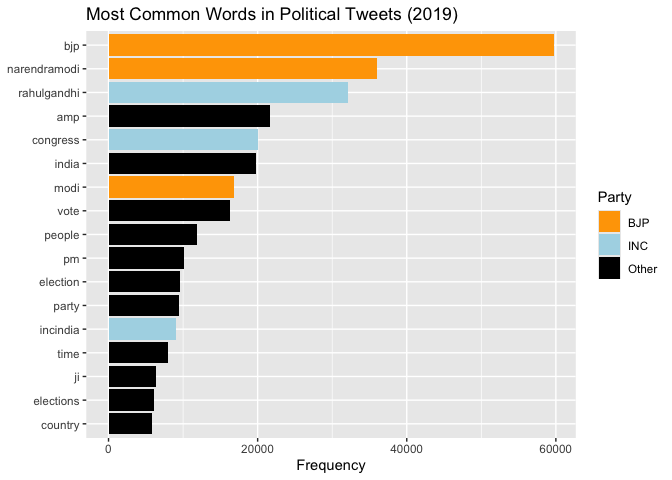
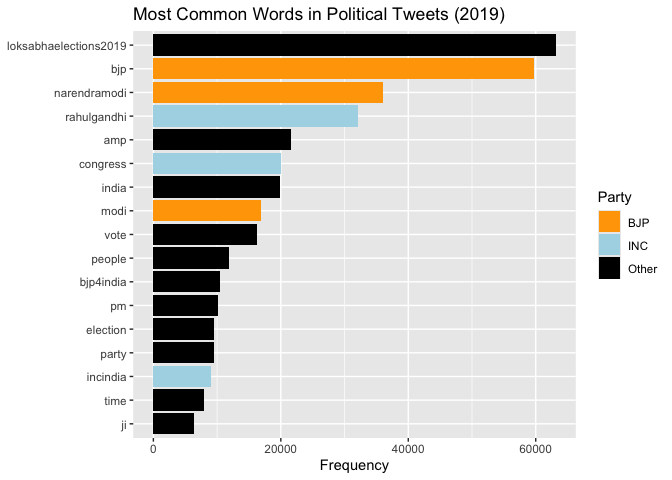
added hashtags

Changed region(s): [[0.0, 0.0, 0.8438, 0.9375], [0.375, 0.9062, 0.625, 1.0], [0.7812, 0.9062, 0.8438, 0.9688]]

diff --git a/README.html b/README.html
@@ -39,17 +39,6 @@ narrow the scope, I filtered the dataset to focus only on tweets from
 the official campaign period and removed tweets that were empty or
 improperly formatted.
 
-``` r
-tweets <- read_csv("IndianElection19TwitterData.csv")       #this dataset was downloaded from Kaggle https://www.kaggle.com/datasets/yogesh239/twitter-data-about-2019-indian-general-election
-tweets <- tweets %>%
-  rename(text = Tweet, timestamp = Date, user = User) %>%   #renaming some columns for better understanding, columns are tweet, date and user
-  mutate(timestamp = as.POSIXct(timestamp, format = "%Y-%m-%d %H:%M:%S"),
-         date = as.Date(timestamp)) %>%                        #drops time stamping from the date part and only keeps the dates
-  filter(date >= as.Date("2019-01-01") & date <= as.Date("2019-05-23")) %>%
-  drop_na(text)     #only select tweets that I have selected in my timeline
-                    #dropping blank columns which have no text
-```
-
 ## DATA CLEANING AND PREPROCESSING
 
 Before diving into the analysis, I cleaned the data to prepare it for
@@ -64,8 +53,8 @@ data("stop_words")   #tidytext package list of words, conjunctions, verbs and ad
 tweet_words <- tweets %>%
   select(user, date, text) %>%               # I have only selected user, date and text column
   unnest_tokens(word, text) %>%              # convert the text into a format that is one word per row format for analysis
-  filter(str_detect(word, "^[a-z']+$")) %>%  
-  anti_join(stop_words, by = "word")   #remove out hashtags, numerical words and others using antijoin
+  filter(str_detect(word, "^#?[A-Za-z0-9]+$"))%>%  
+  anti_join(stop_words, by = "word")  #it includes hashtags words like bjp4india abut excludes some words like #Go_vote, @user, covid-19
 ```
 
 ## WORD FREQUENCY ANALYSIS
@@ -123,23 +112,23 @@ head(top_tf_idf, 17)
     ## # A tibble: 17 × 6
     ##    user            word                       n     tf   idf tf_idf
     ##    <chr>           <chr>                  <int>  <dbl> <dbl>  <dbl>
-    ##  1 0007_CJ         cows                       3 0.111   7.07  0.786
-    ##  2 001_chandan     chandnichowk               1 0.05    8.50  0.425
-    ##  3 001amitsingh    sudhanshubjp               2 0.1    10.8   1.08 
+    ##  1 0007_CJ         cows                       3 0.103   7.07  0.731
+    ##  2 001_chandan     polls2019                  1 0.0455  8.73  0.397
+    ##  3 001amitsingh    sudhanshubjp               2 0.0870 10.8   0.940
     ##  4 001ankitG       abhinandan                 1 0.5     4.71  2.36 
     ##  5 002_akash       answerable                 1 0.0909  7.41  0.673
-    ##  6 004Pruth        pass                       2 0.1     5.48  0.548
-    ##  7 0062a04e1ceb458 scale                      1 0.143   6.24  0.892
+    ##  6 004Pruth        pass                       2 0.0833  5.48  0.457
+    ##  7 0062a04e1ceb458 scale                      1 0.0909  6.24  0.568
     ##  8 007Bhas         aamaadmi                   1 0.0455  8.73  0.397
-    ##  9 007Fahadkhan    electioncommission         1 0.333   3.45  1.15 
-    ## 10 007__AK         opposit                    1 0.0714 10.8   0.772
-    ## 11 007_hemal       trusted                    2 0.0625  6.63  0.415
+    ##  9 007Fahadkhan    electioncommission         1 0.25    3.45  0.862
+    ## 10 007__AK         opposit                    1 0.0667 10.8   0.721
+    ## 11 007_hemal       trusted                    2 0.0588  6.63  0.390
     ## 12 007_joshh       supports                   2 0.0345  5.44  0.188
-    ## 13 007_vasu        unitedpakistanalliance     1 0.0208 10.8   0.225
-    ## 14 007dibs         depends                    1 0.0909  6.43  0.584
-    ## 15 007shekharsuman jaipur                     1 0.0588  6.59  0.388
+    ## 13 007_vasu        unitedpakistanalliance     1 0.0204 10.8   0.221
+    ## 14 007dibs         depends                    1 0.0833  6.43  0.535
+    ## 15 007shekharsuman jaipur                     1 0.0625  6.59  0.412
     ## 16 007vidyadhar    sakhshimaharaj             1 0.143  10.8   1.54 
-    ## 17 0099Swami       prestigious                1 0.0625  7.20  0.450
+    ## 17 0099Swami       prestigious                1 0.0588  7.20  0.423
 
 These are random twitter users,not someone who I think are famous or
 have a celebrity status. Fir 001amitsingh, word sudhanshubjp has a high
@@ -165,7 +154,7 @@ campaign rallies.
 
 ``` r
 sentiment_words <- tweet_words %>% inner_join(get_sentiments("bing"))      #using bing for sentiment analysis https://www.tidytextmining.com/sentiment, using inner join (referenced from penultimate class lecture or I was getting this wrong)
-sentiment_by_day <- sentiment_words %>% count(date, sentiment) %>% pivot_wider(names_from = sentiment, values_from = n, values_fill = 0) %>% mutate(net_sentiment = positive - negative)                                    # counting the no of positve and negative words for each date. Formating wife data for each data to have its own positive and negative, fill any missing values with zero such that it will still appear. Add a new sentiment column: sentiment positive if move positive words, sentiment negative if more negative words
+sentiment_by_day <- sentiment_words %>% count(date, sentiment) %>% pivot_wider(names_from = sentiment, values_from = n, values_fill = 0) %>% mutate(net_sentiment = positive - negative)                                    # counting the no of positve and negative words for each date. Formatingdata for each data to have its own positive and negative, fill any missing values with zero such that it will still appear. Add a new sentiment column: sentiment positive if move positive words, sentiment negative if more negative words
 ggplot(sentiment_by_day, aes(x = date, y = net_sentiment)) + 
   geom_vline(xintercept = as.Date("2019-02-14"), linetype = "dashed", color = "red") + annotate("text", x = as.Date("2019-02-14"), y = 100, label = "Pulwama Attack", angle = 90, vjust = -0.6, size = 3) + geom_vline(xintercept = as.Date("2019-02-26"), linetype = "dashed", color = "red") + annotate("text", x = as.Date("2019-02-26"), y = 100, label = "Balakot Strikes", angle = 90, vjust = -0.6, size = 3) + geom_vline(xintercept = as.Date("2019-03-10"), linetype = "dashed", color = "red") + annotate("text", x = as.Date("2019-03-10"), y = 100, label = "Onset of elections", angle = 90, vjust = -0.6, size = 3) + geom_vline(xintercept = as.Date("2019-05-19"), linetype = "dashed", color = "red") + annotate("text", x = as.Date("2019-05-19"), y = 100, label = "End of polling", angle = 90, vjust = -0.6, size = 3) +
   geom_line(color = "black") +                                             #these lines are added just to mark important dates with context to indian elections
@@ -200,7 +189,7 @@ mix of aspirational and accusatory language felt typical of high stakes
 electoral contests, especially in India’s charged political climate.
 
 ``` r
-wordcloud_data <- sentiment_words %>% count(word, sentiment, sort = TRUE)              #this counts the number of words in sentiment_words dataset grouping them by sentiments and then sorting it 
+wordcloud_data <- sentiment_words %>% count(word, sentiment, sort = TRUE) #this counts the number of words in sentiment_words dataset grouping them by sentiments and then sorting it 
 wordcloud(words = wordcloud_data$word,   #this code just creates the word cloud, the last line ensures that biggest words appear at the center than being scatter around
  freq = wordcloud_data$n,  min.freq = 30, max.words = 100, colors = c("black", "grey"),random.order = FALSE)
 ```
@@ -235,19 +224,17 @@ party_patterns <- list(
   TMC   = c("@AITCofficial", "\\bTMC\\b", "Mamata Banerjee"),
   CPIM  = c("@cpimspeak", "@cpofindia", "\\bCPI\\b", "\\bCPIM\\b"),
   SP    = c("@samajwadiparty", "Akhilesh Yadav", "\\bSP\\b")
-)  #these are some party specific keywords or twitter handles that I thought would be relevant given my knowledge of Indian Politics
+)  #these are some party specific keywords or twitter handles that I thought would be relevant given my limited knowledge of Indian Politics
 
-detect_party <- function(tweet) { for (party in names(party_patterns)) { if (any(str_detect(tweet, regex(party_patterns[[party]], ignore_case = TRUE)))) { return(party) } }
+detect_party <- function(tweet) { for (party in names(party_patterns)) { if (any(str_detect(tweet, regex(party_patterns[[party]], ignore_case = TRUE)))) { return(party) } } #this is a party helper function that goes and loops through each tweet and checks whether any of the party specific patterns that I mentioned above show in the then
   return("Other")
 }
-                #this is a party helper function that goes and loops through each tweet and checks whether any of the party specific patterns that I mentioned above show in the then
-
 tweets <- tweets %>% mutate(party = map_chr(text, detect_party)) %>%filter(party != "Other")   #function to each tweet and add a new parrty column, filter out tweets that have no parties mentioned especially the ones I have mentioned in the code above
-
 tidy_tweets <- tweets %>%
   unnest_tokens(word, text) %>%                     #break tweet into indiv words and then remove filler words and numbers, hashtags and punctuations
   anti_join(stop_words, by = "word") %>%
-  filter(str_detect(word, "^[a-z]+$"))              #filter out the hashtags, numerics which are not used in our study or analysis
+  filter(str_detect(word, "^#?[A-Za-z0-9]+$"))
+             #it includes hashtags words like bjp4india abut excludes some words like #Go_vote, @user, covid-19
 ```
 
 ## SENTIMENT BY PARTY
@@ -316,9 +303,7 @@ continuing with the basic shape would be the best In order to complete
 this project I was stuck with the problem of having way too many filler
 words and while attending the penultimate lecture I figureds stopwords
 out.  
-I tried using AI to help me with generating a different shape of the
-word cloud but I didnt implement it in this project. Kaggle was of great
-help as was stackoverflow. <br>
+Kaggle was of great help as was stackoverflow. <br>
 
 1.  <https://www.kaggle.com/datasets/yogesh239/twitter-data-about-2019-indian-general-election>
     <br>

diff --git a/README.md b/README.md
@@ -39,17 +39,6 @@ narrow the scope, I filtered the dataset to focus only on tweets from
 the official campaign period and removed tweets that were empty or
 improperly formatted.
 
-``` r
-tweets <- read_csv("IndianElection19TwitterData.csv")       #this dataset was downloaded from Kaggle https://www.kaggle.com/datasets/yogesh239/twitter-data-about-2019-indian-general-election
-tweets <- tweets %>%
-  rename(text = Tweet, timestamp = Date, user = User) %>%   #renaming some columns for better understanding, columns are tweet, date and user
-  mutate(timestamp = as.POSIXct(timestamp, format = "%Y-%m-%d %H:%M:%S"),
-         date = as.Date(timestamp)) %>%                        #drops time stamping from the date part and only keeps the dates
-  filter(date >= as.Date("2019-01-01") & date <= as.Date("2019-05-23")) %>%
-  drop_na(text)     #only select tweets that I have selected in my timeline
-                    #dropping blank columns which have no text
-```
-
 ## DATA CLEANING AND PREPROCESSING
 
 Before diving into the analysis, I cleaned the data to prepare it for
@@ -64,8 +53,8 @@ data("stop_words")   #tidytext package list of words, conjunctions, verbs and ad
 tweet_words <- tweets %>%
   select(user, date, text) %>%               # I have only selected user, date and text column
   unnest_tokens(word, text) %>%              # convert the text into a format that is one word per row format for analysis
-  filter(str_detect(word, "^[a-z']+$")) %>%  
-  anti_join(stop_words, by = "word")   #remove out hashtags, numerical words and others using antijoin
+  filter(str_detect(word, "^#?[A-Za-z0-9]+$"))%>%  
+  anti_join(stop_words, by = "word")  #it includes hashtags words like bjp4india abut excludes some words like #Go_vote, @user, covid-19
 ```
 
 ## WORD FREQUENCY ANALYSIS
@@ -123,23 +112,23 @@ head(top_tf_idf, 17)
     ## # A tibble: 17 × 6
     ##    user            word                       n     tf   idf tf_idf
     ##    <chr>           <chr>                  <int>  <dbl> <dbl>  <dbl>
-    ##  1 0007_CJ         cows                       3 0.111   7.07  0.786
-    ##  2 001_chandan     chandnichowk               1 0.05    8.50  0.425
-    ##  3 001amitsingh    sudhanshubjp               2 0.1    10.8   1.08 
+    ##  1 0007_CJ         cows                       3 0.103   7.07  0.731
+    ##  2 001_chandan     polls2019                  1 0.0455  8.73  0.397
+    ##  3 001amitsingh    sudhanshubjp               2 0.0870 10.8   0.940
     ##  4 001ankitG       abhinandan                 1 0.5     4.71  2.36 
     ##  5 002_akash       answerable                 1 0.0909  7.41  0.673
-    ##  6 004Pruth        pass                       2 0.1     5.48  0.548
-    ##  7 0062a04e1ceb458 scale                      1 0.143   6.24  0.892
+    ##  6 004Pruth        pass                       2 0.0833  5.48  0.457
+    ##  7 0062a04e1ceb458 scale                      1 0.0909  6.24  0.568
     ##  8 007Bhas         aamaadmi                   1 0.0455  8.73  0.397
-    ##  9 007Fahadkhan    electioncommission         1 0.333   3.45  1.15 
-    ## 10 007__AK         opposit                    1 0.0714 10.8   0.772
-    ## 11 007_hemal       trusted                    2 0.0625  6.63  0.415
+    ##  9 007Fahadkhan    electioncommission         1 0.25    3.45  0.862
+    ## 10 007__AK         opposit                    1 0.0667 10.8   0.721
+    ## 11 007_hemal       trusted                    2 0.0588  6.63  0.390
     ## 12 007_joshh       supports                   2 0.0345  5.44  0.188
-    ## 13 007_vasu        unitedpakistanalliance     1 0.0208 10.8   0.225
-    ## 14 007dibs         depends                    1 0.0909  6.43  0.584
-    ## 15 007shekharsuman jaipur                     1 0.0588  6.59  0.388
+    ## 13 007_vasu        unitedpakistanalliance     1 0.0204 10.8   0.221
+    ## 14 007dibs         depends                    1 0.0833  6.43  0.535
+    ## 15 007shekharsuman jaipur                     1 0.0625  6.59  0.412
     ## 16 007vidyadhar    sakhshimaharaj             1 0.143  10.8   1.54 
-    ## 17 0099Swami       prestigious                1 0.0625  7.20  0.450
+    ## 17 0099Swami       prestigious                1 0.0588  7.20  0.423
 
 These are random twitter users,not someone who I think are famous or
 have a celebrity status. Fir 001amitsingh, word sudhanshubjp has a high
@@ -165,7 +154,7 @@ campaign rallies.
 
 ``` r
 sentiment_words <- tweet_words %>% inner_join(get_sentiments("bing"))      #using bing for sentiment analysis https://www.tidytextmining.com/sentiment, using inner join (referenced from penultimate class lecture or I was getting this wrong)
-sentiment_by_day <- sentiment_words %>% count(date, sentiment) %>% pivot_wider(names_from = sentiment, values_from = n, values_fill = 0) %>% mutate(net_sentiment = positive - negative)                                    # counting the no of positve and negative words for each date. Formating wife data for each data to have its own positive and negative, fill any missing values with zero such that it will still appear. Add a new sentiment column: sentiment positive if move positive words, sentiment negative if more negative words
+sentiment_by_day <- sentiment_words %>% count(date, sentiment) %>% pivot_wider(names_from = sentiment, values_from = n, values_fill = 0) %>% mutate(net_sentiment = positive - negative)                                    # counting the no of positve and negative words for each date. Formatingdata for each data to have its own positive and negative, fill any missing values with zero such that it will still appear. Add a new sentiment column: sentiment positive if move positive words, sentiment negative if more negative words
 ggplot(sentiment_by_day, aes(x = date, y = net_sentiment)) + 
   geom_vline(xintercept = as.Date("2019-02-14"), linetype = "dashed", color = "red") + annotate("text", x = as.Date("2019-02-14"), y = 100, label = "Pulwama Attack", angle = 90, vjust = -0.6, size = 3) + geom_vline(xintercept = as.Date("2019-02-26"), linetype = "dashed", color = "red") + annotate("text", x = as.Date("2019-02-26"), y = 100, label = "Balakot Strikes", angle = 90, vjust = -0.6, size = 3) + geom_vline(xintercept = as.Date("2019-03-10"), linetype = "dashed", color = "red") + annotate("text", x = as.Date("2019-03-10"), y = 100, label = "Onset of elections", angle = 90, vjust = -0.6, size = 3) + geom_vline(xintercept = as.Date("2019-05-19"), linetype = "dashed", color = "red") + annotate("text", x = as.Date("2019-05-19"), y = 100, label = "End of polling", angle = 90, vjust = -0.6, size = 3) +
   geom_line(color = "black") +                                             #these lines are added just to mark important dates with context to indian elections
@@ -200,7 +189,7 @@ mix of aspirational and accusatory language felt typical of high stakes
 electoral contests, especially in India’s charged political climate.
 
 ``` r
-wordcloud_data <- sentiment_words %>% count(word, sentiment, sort = TRUE)              #this counts the number of words in sentiment_words dataset grouping them by sentiments and then sorting it 
+wordcloud_data <- sentiment_words %>% count(word, sentiment, sort = TRUE) #this counts the number of words in sentiment_words dataset grouping them by sentiments and then sorting it 
 wordcloud(words = wordcloud_data$word,   #this code just creates the word cloud, the last line ensures that biggest words appear at the center than being scatter around
  freq = wordcloud_data$n,  min.freq = 30, max.words = 100, colors = c("black", "grey"),random.order = FALSE)
 ```
@@ -235,19 +224,17 @@ party_patterns <- list(
   TMC   = c("@AITCofficial", "\\bTMC\\b", "Mamata Banerjee"),
   CPIM  = c("@cpimspeak", "@cpofindia", "\\bCPI\\b", "\\bCPIM\\b"),
   SP    = c("@samajwadiparty", "Akhilesh Yadav", "\\bSP\\b")
-)  #these are some party specific keywords or twitter handles that I thought would be relevant given my knowledge of Indian Politics
+)  #these are some party specific keywords or twitter handles that I thought would be relevant given my limited knowledge of Indian Politics
 
-detect_party <- function(tweet) { for (party in names(party_patterns)) { if (any(str_detect(tweet, regex(party_patterns[[party]], ignore_case = TRUE)))) { return(party) } }
+detect_party <- function(tweet) { for (party in names(party_patterns)) { if (any(str_detect(tweet, regex(party_patterns[[party]], ignore_case = TRUE)))) { return(party) } } #this is a party helper function that goes and loops through each tweet and checks whether any of the party specific patterns that I mentioned above show in the then
   return("Other")
 }
-                #this is a party helper function that goes and loops through each tweet and checks whether any of the party specific patterns that I mentioned above show in the then
-
 tweets <- tweets %>% mutate(party = map_chr(text, detect_party)) %>%filter(party != "Other")   #function to each tweet and add a new parrty column, filter out tweets that have no parties mentioned especially the ones I have mentioned in the code above
-
 tidy_tweets <- tweets %>%
   unnest_tokens(word, text) %>%                     #break tweet into indiv words and then remove filler words and numbers, hashtags and punctuations
   anti_join(stop_words, by = "word") %>%
-  filter(str_detect(word, "^[a-z]+$"))              #filter out the hashtags, numerics which are not used in our study or analysis
+  filter(str_detect(word, "^#?[A-Za-z0-9]+$"))
+             #it includes hashtags words like bjp4india abut excludes some words like #Go_vote, @user, covid-19
 ```
 
 ## SENTIMENT BY PARTY
@@ -316,9 +303,7 @@ continuing with the basic shape would be the best In order to complete
 this project I was stuck with the problem of having way too many filler
 words and while attending the penultimate lecture I figureds stopwords
 out.  
-I tried using AI to help me with generating a different shape of the
-word cloud but I didnt implement it in this project. Kaggle was of great
-help as was stackoverflow. <br>
+Kaggle was of great help as was stackoverflow. <br>
 
 1.  <https://www.kaggle.com/datasets/yogesh239/twitter-data-about-2019-indian-general-election>
     <br>
